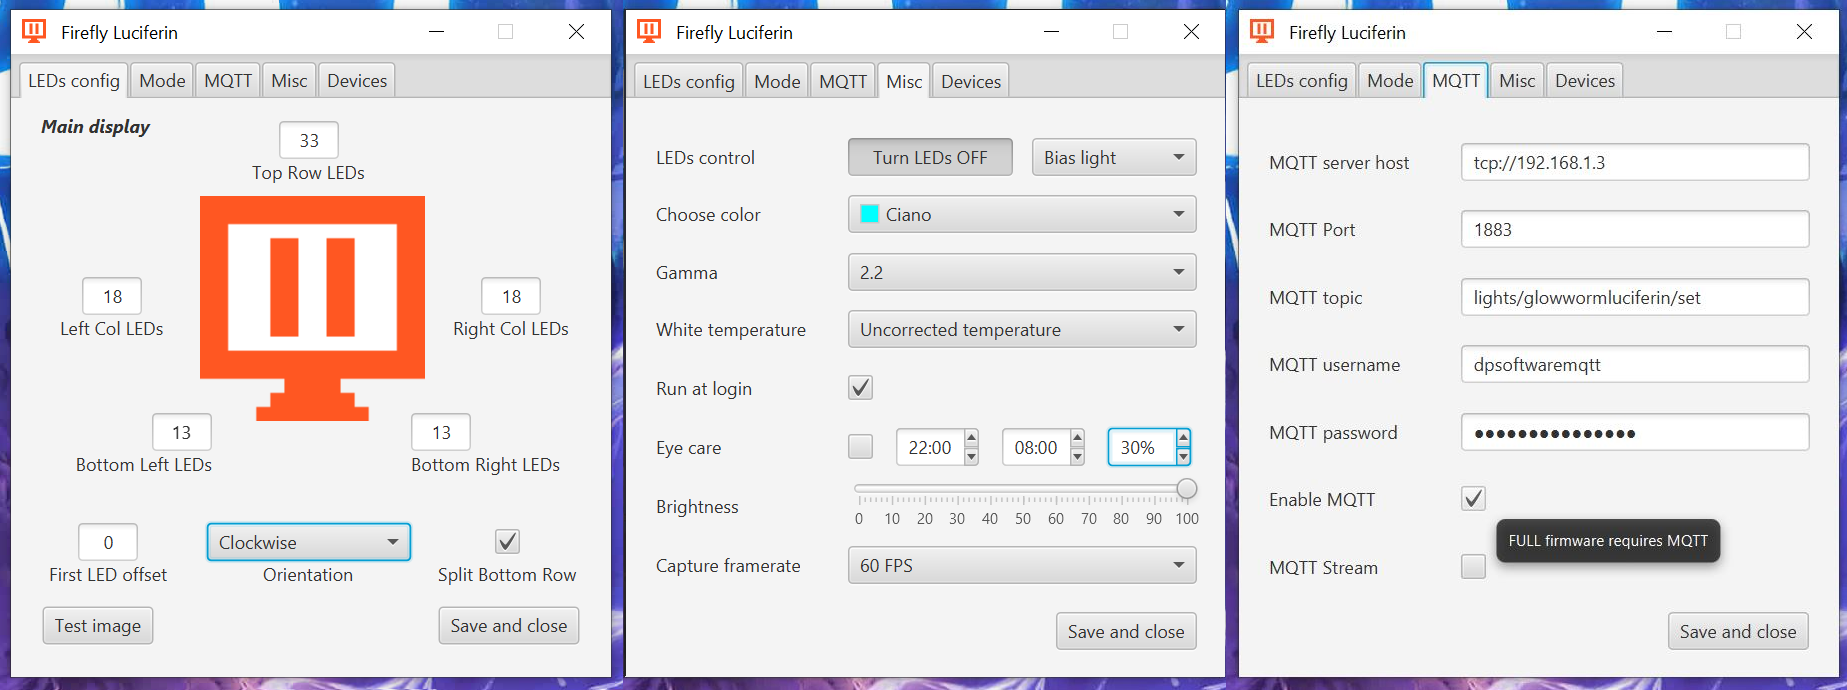
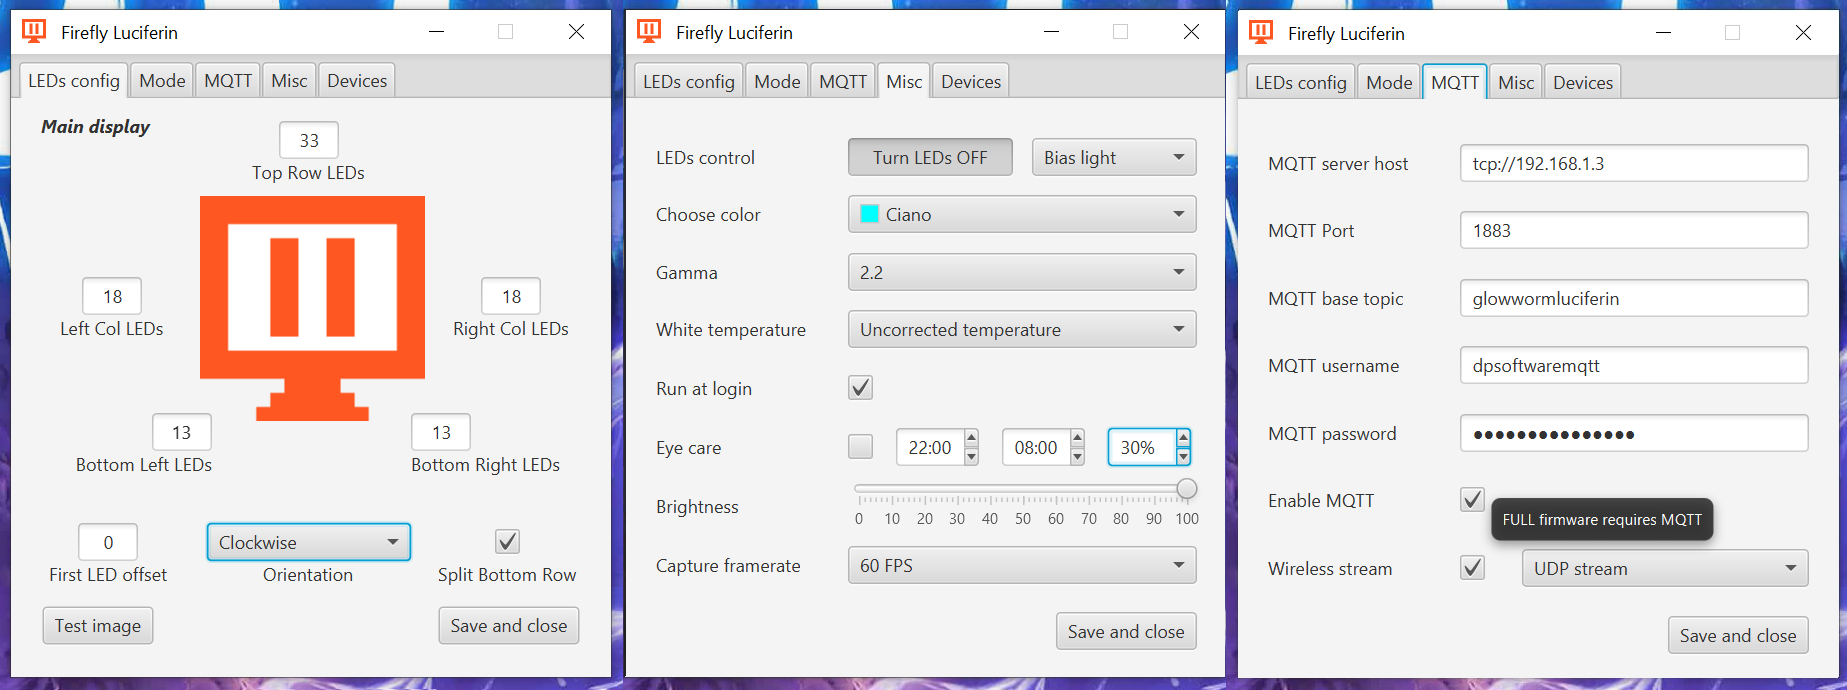
UDP stream, massive performance improvements

diff --git a/src/main/java/org/dpsoftware/config/Constants.java b/src/main/java/org/dpsoftware/config/Constants.java
@@ -548,7 +548,7 @@ public class Constants {
 	public static final String TOOLTIP_MQTTENABLE = "FULL firmware requires MQTT";
 	public static final String TOOLTIP_EYE_CARE = "If enabled LEDs will never turn off in black scenes, a soft and gentle light is used instead.";
 	public static final String TOOLTIP_MQTTSTREAM = "This method does not require a USB cable, for best performance prefer GPIO3, if you want to use USB prefer GPIO2.";
-	public static final String TOOLTIP_STREAMTYPE = "UDP is the fastest one.";
+	public static final String TOOLTIP_STREAMTYPE = "UDP is the fastest one";
 	public static final String TOOLTIP_START_WITH_SYSTEM = "Launch Firefly Luciferin when system starts";
 	public static final String TOOLTIP_CHECK_UPDATES = "Set and forget it to update Firefly Luciferin and Glow Worm Luciferin when updates are available. Automatic firmware upgrade is available on FULL version only";
 	public static final String TOOLTIP_PLAYBUTTON_NULL = "Please configure and save before capturing";
